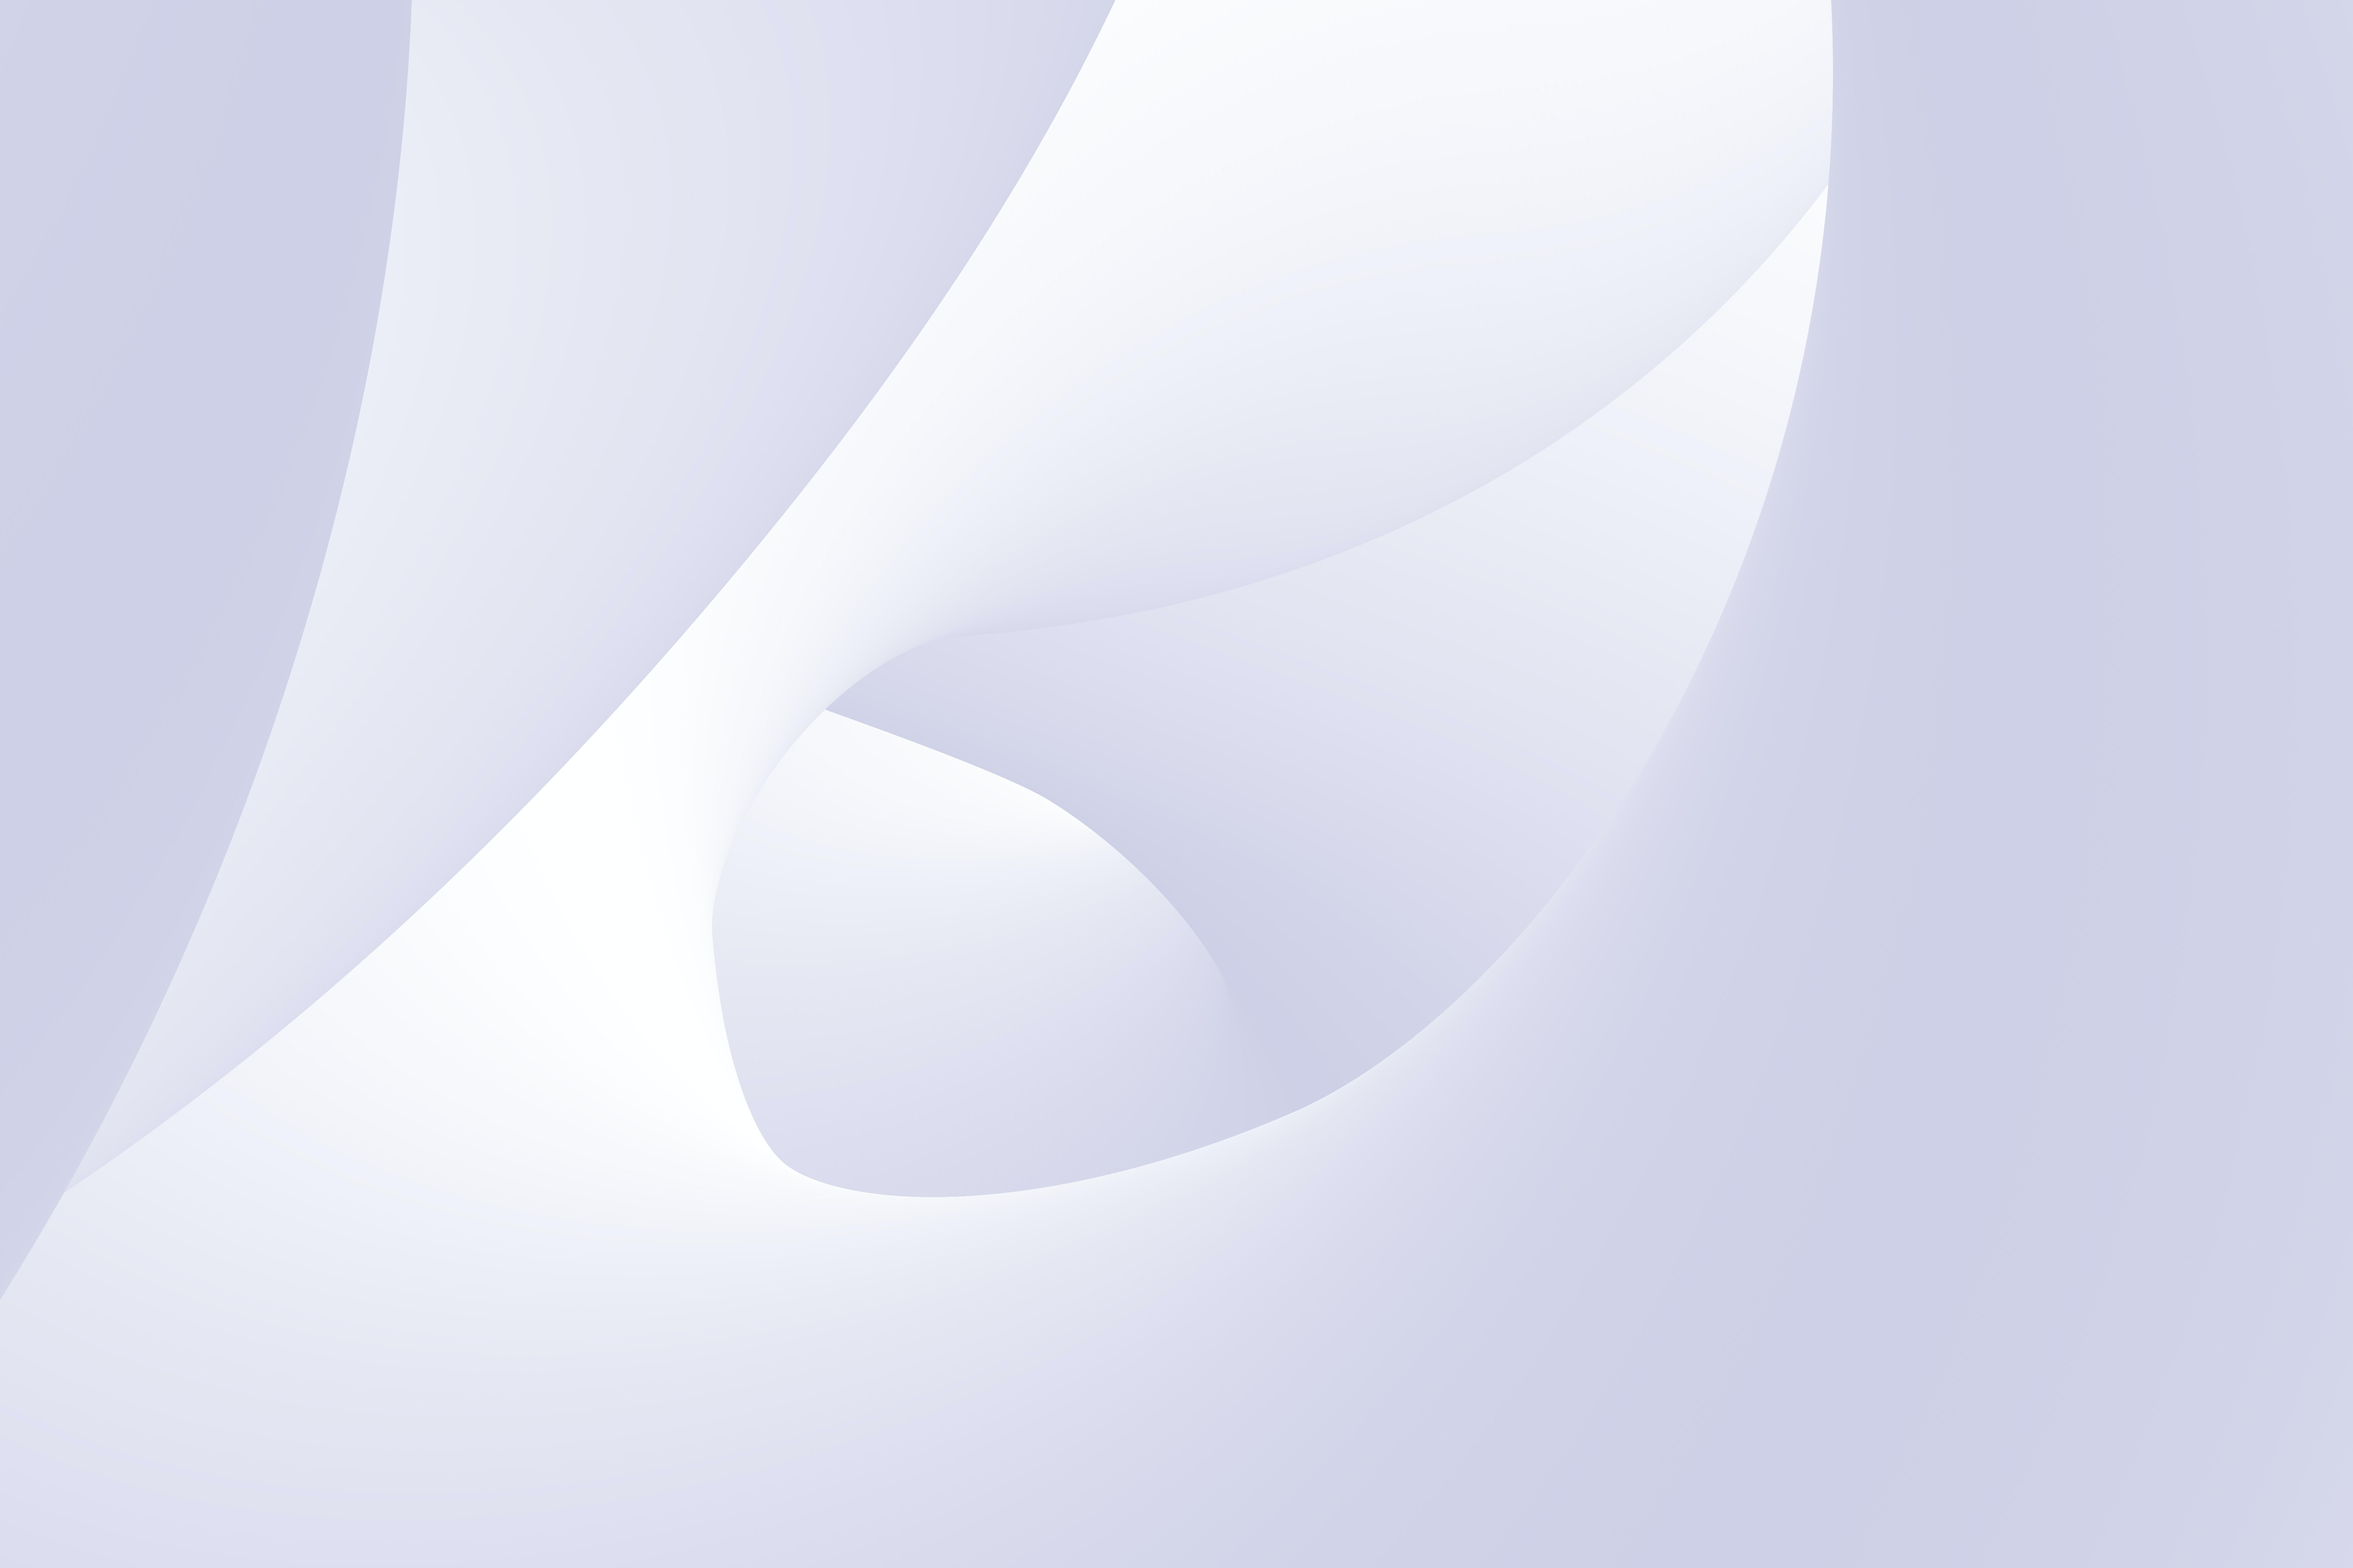
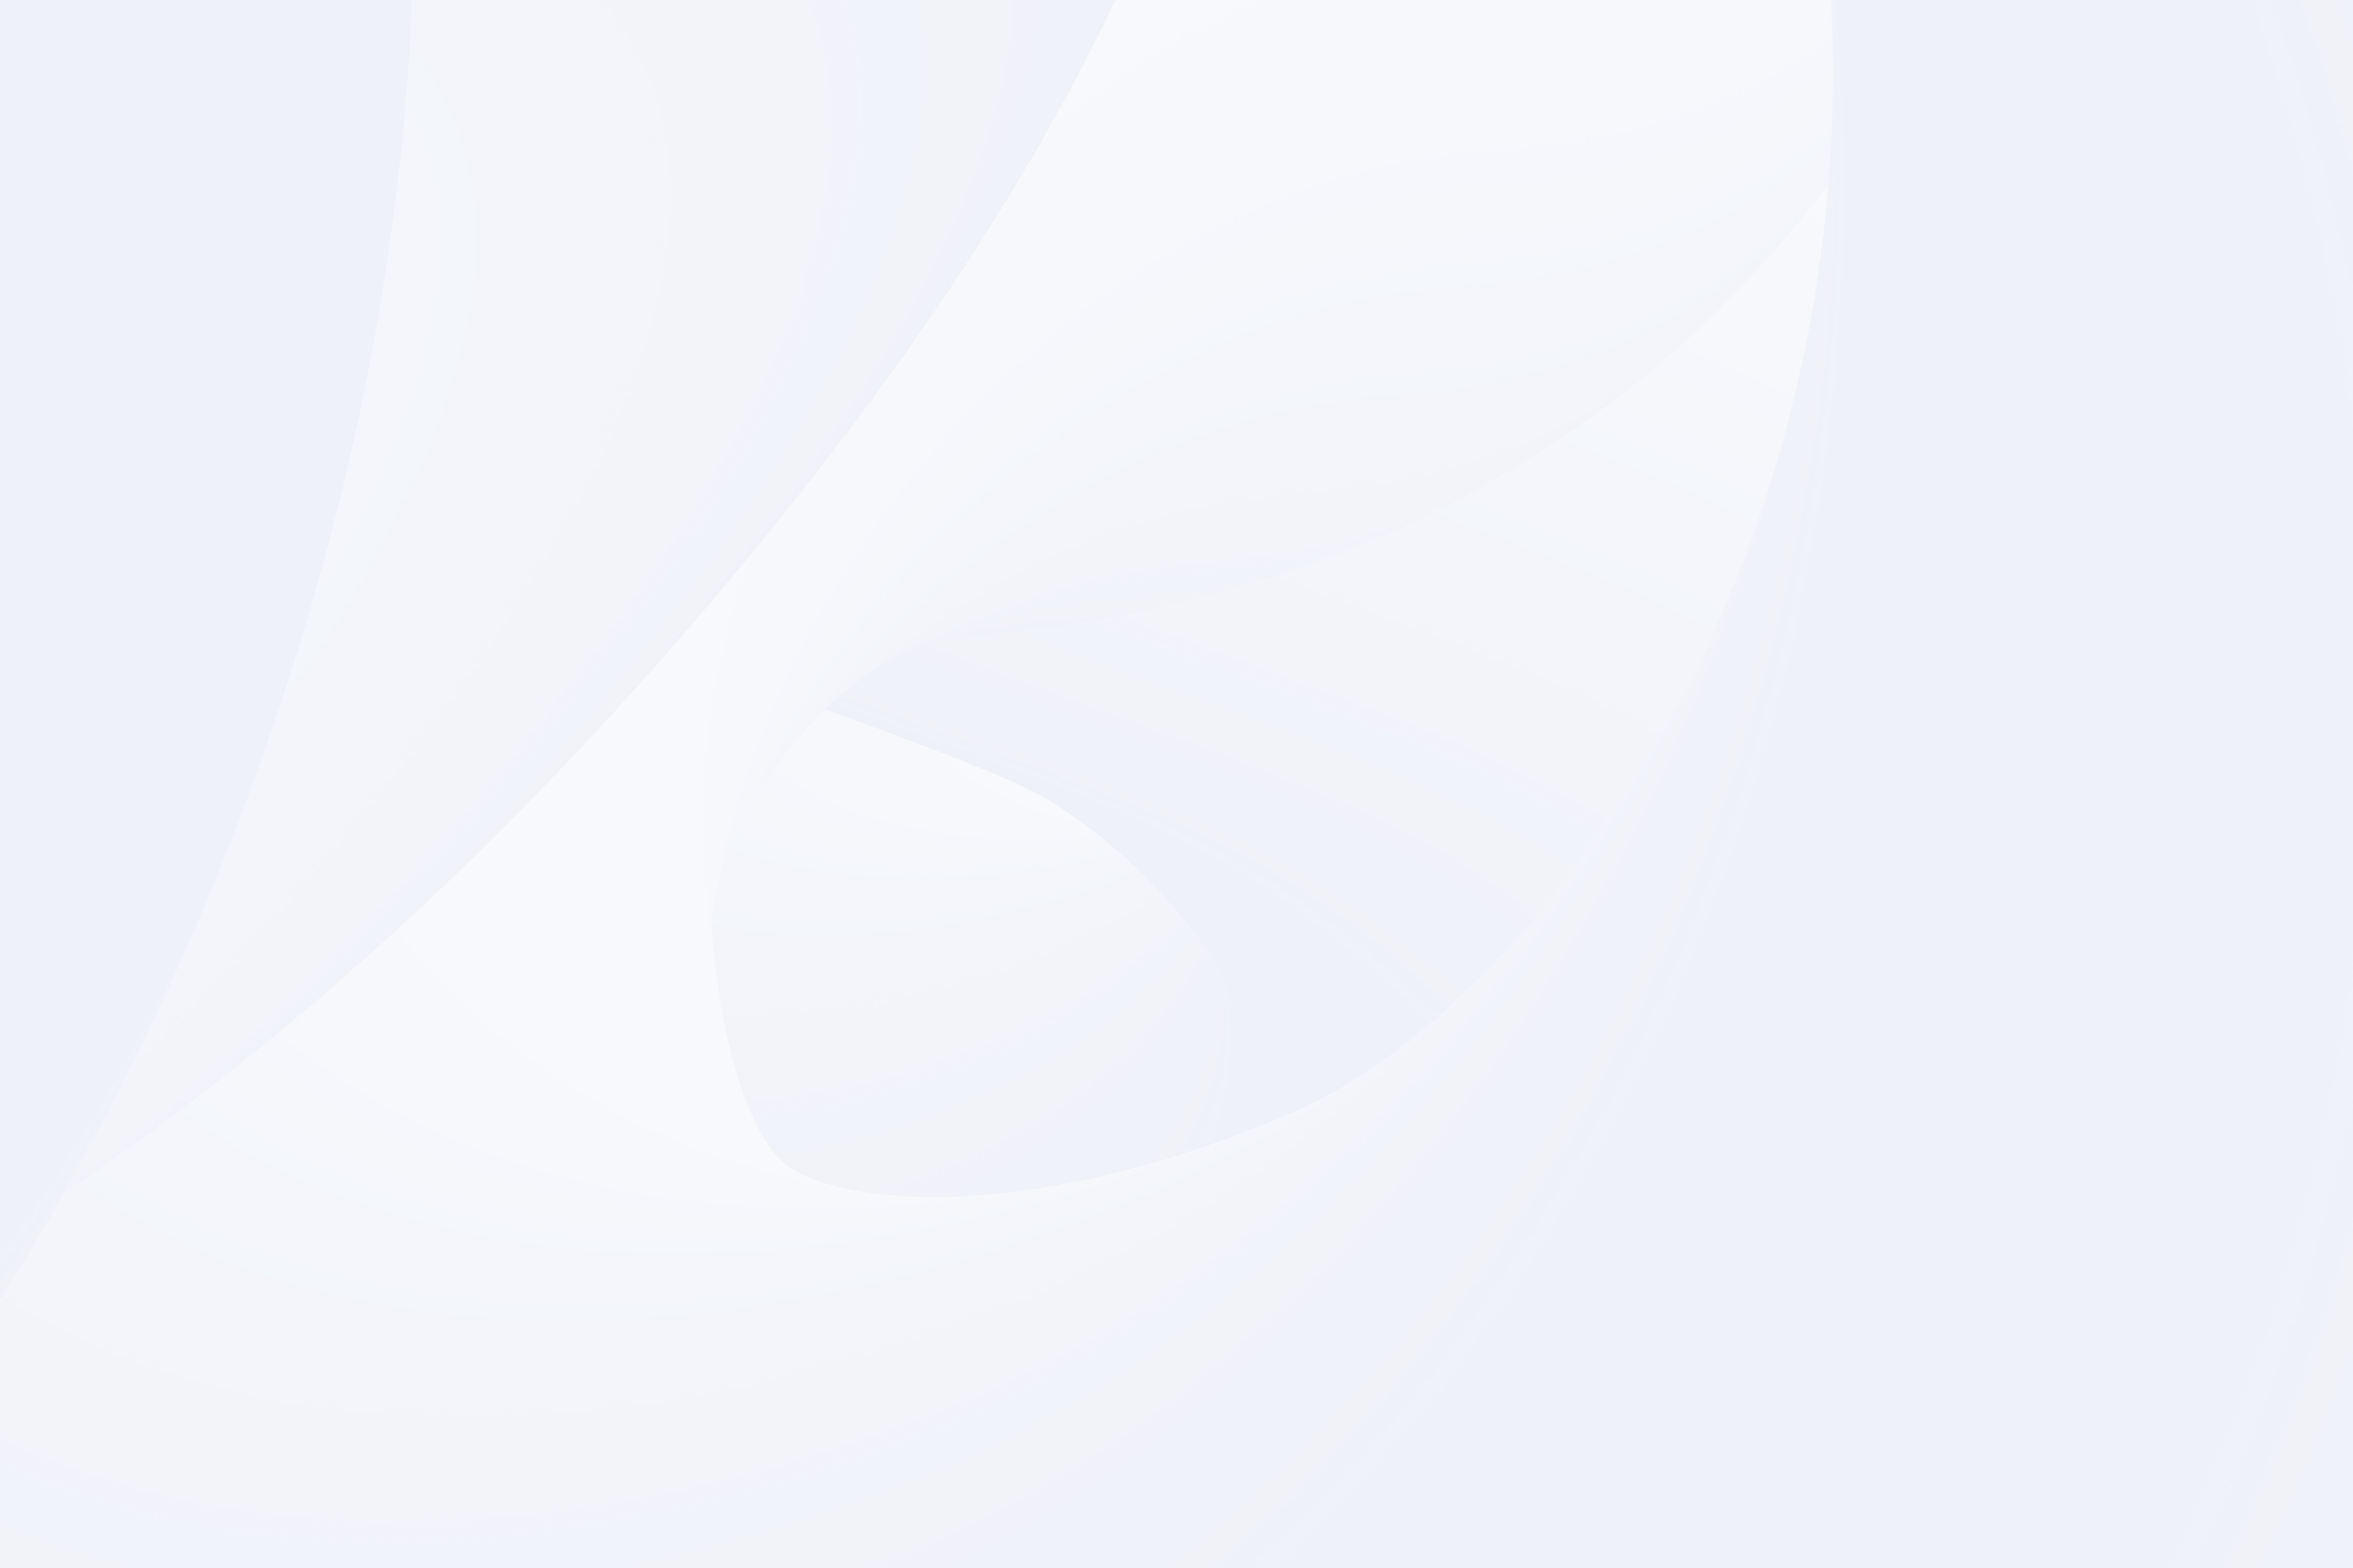
"fix: background image was cut off when the page was scrolled"

diff --git a/frontend/src/presentation/pages/chat/components/chat-container-messages.tsx b/frontend/src/presentation/pages/chat/components/chat-container-messages.tsx
@@ -45,18 +45,7 @@ const ChatContainerMessages: React.FC<IChatContent> = ({recipientUsername,showDe
 	return (
 		<HStack bg='#FAFCFF' h={'100%'} flex='1' width={'auto'} flexDir={'column'} >
 			<HeaderCurrentChat showUser={showDetails} />
-			<VStack flex={1} w='100%' bg={'#F6F8FC' } overflowY="auto" margin={'0 !important'} padding={5} position={'relative'}>
-				<Box
-					position="absolute"
-					top={0}
-					left={0}
-					right={0}
-					bottom={0}
-					bg={`url(${background})`}
-					opacity={0.2}
-					backgroundSize="cover"
-					zIndex={0}
-				/>
+			<VStack flex={1} w='100%' backgroundImage={background} backgroundSize={'cover'} overflowY="auto" margin={'0 !important'} padding={5}>
 				{messages?.messages.map(e=> <Message key={e.id} message={e.message} me={e.me} sendAt={e.sendAt}/>)}
 				<div ref={bottomRef} />
 			</VStack> 
